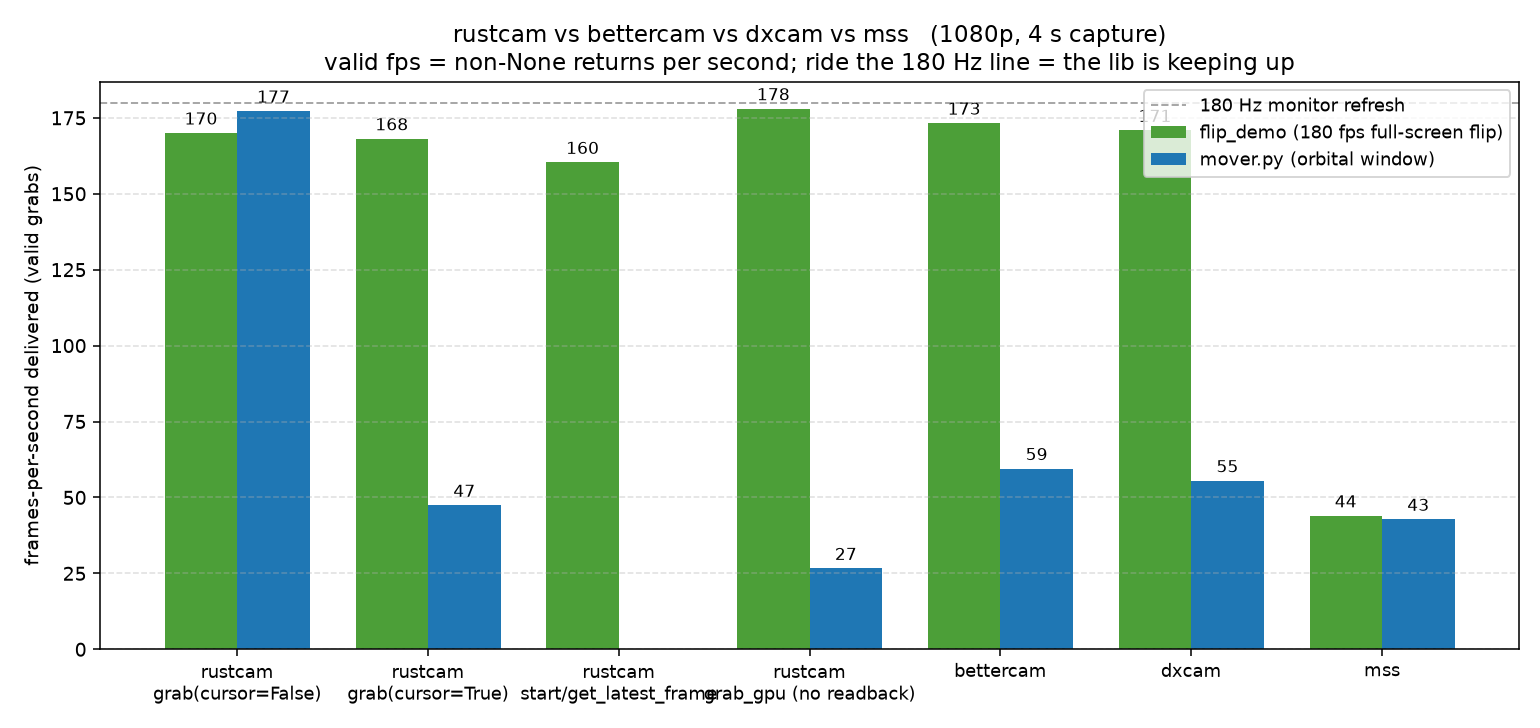
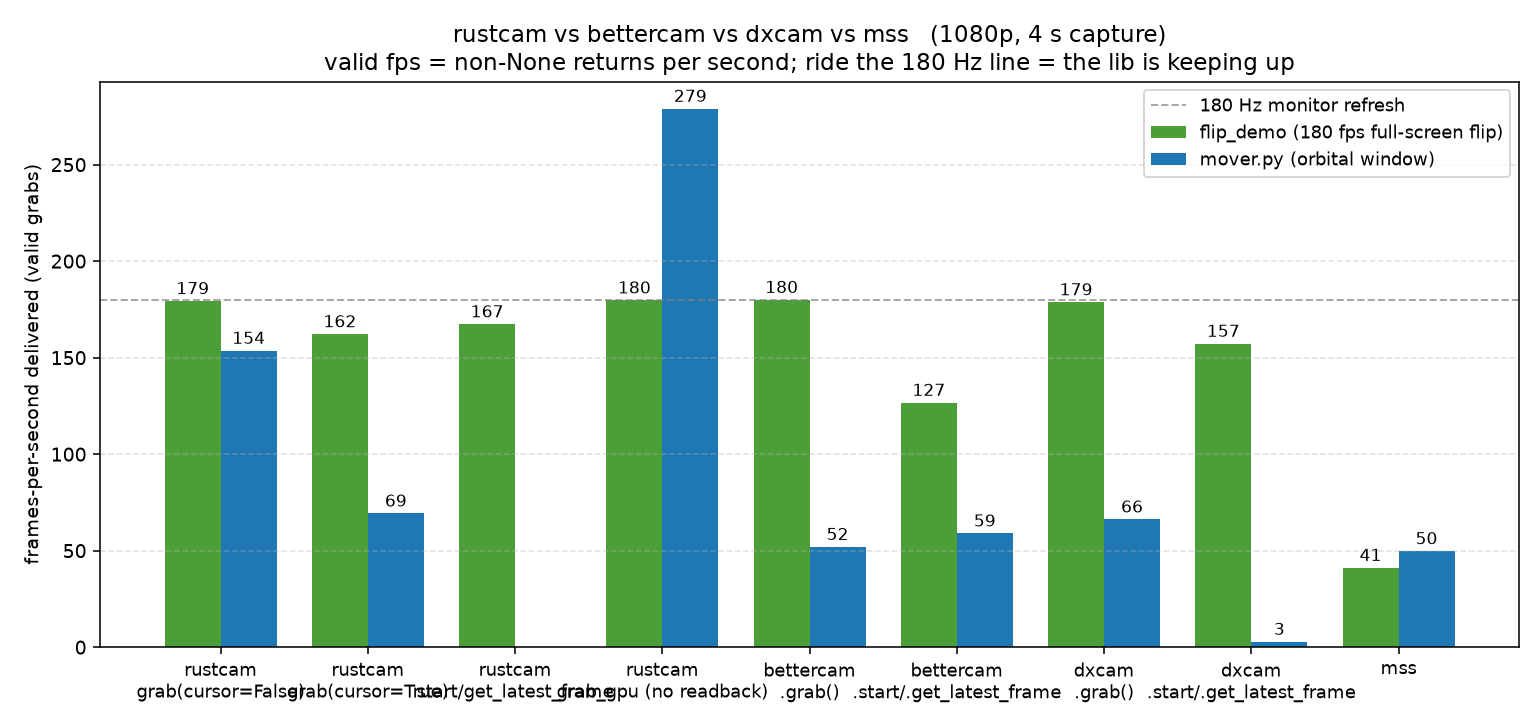
v0.0.5: honest benchmark + README rewrite. Previous bench was unfair: bettercam.grab() and dxcam.grab() are one-shot modes that go straight to AcquireNextFrame; the typical usage is .start()+.get_latest_frame() which is much slower. v0.0.5's bench tests BOTH modes for each library. Result: on flip_d

diff --git a/benches/flip_demo_bench.py b/benches/flip_demo_bench.py
@@ -212,22 +212,57 @@ def bench_rustcam_gpu(label="rustcam grab_gpu (no readback)"):
         cap.close()
 
 
-def bench_bettercam(label="bettercam"):
+def bench_bettercam_grab(label="bettercam .grab()"):
+    """bettercam.grab() one-shot mode. Each call hits AcquireNextFrame
+    directly. This is the SHOWY mode — fast, but not how typical users
+    invoke bettercam in real code."""
     import bettercam
     cam = bettercam.create(output_idx=0)
     try:
         return bench(label, lambda: cam.grab())
     finally:
         cam.release()
+        import time; time.sleep(0.5)
 
 
-def bench_dxcam(label="dxcam"):
+def bench_bettercam_start(label="bettercam .start/.get_latest_frame"):
+    """The TYPICAL bettercam usage pattern — `.start()` spawns its bg
+    capture thread and `.get_latest_frame()` blocks until a fresh
+    frame is in the ring buffer. This is what every bettercam tutorial
+    and recipe online uses."""
+    import bettercam
+    cam = bettercam.create(output_idx=0)
+    cam.start(target_fps=200, video_mode=False)
+    import time; time.sleep(0.5)
+    try:
+        return bench(label, lambda: cam.get_latest_frame())
+    finally:
+        cam.stop()
+        cam.release()
+        time.sleep(0.5)
+
+
+def bench_dxcam_grab(label="dxcam .grab()"):
     import dxcam
     cam = dxcam.create(output_idx=0)
     try:
         return bench(label, lambda: cam.grab())
     finally:
         cam.release()
+        import time; time.sleep(0.5)
+
+
+def bench_dxcam_start(label="dxcam .start/.get_latest_frame"):
+    import dxcam
+    cam = dxcam.create(output_idx=0)
+    cam.start(target_fps=200, video_mode=False)
+    import time; time.sleep(0.5)
+    try:
+        return bench(label, lambda: cam.get_latest_frame())
+    finally:
+        cam.stop()
+        cam.release()
+        time.sleep(0.5)
 
 
 def bench_mss(label="mss"):
@@ -256,8 +291,10 @@ def run_round(label_prefix, stim_fn):
             bench_rustcam_cursor,
             bench_rustcam_bg,
             bench_rustcam_gpu,
-            bench_bettercam,
-            bench_dxcam,
+            bench_bettercam_grab,
+            bench_bettercam_start,
+            bench_dxcam_grab,
+            bench_dxcam_start,
             bench_mss,
         ):
             try:

diff --git a/README.md b/README.md
@@ -37,28 +37,37 @@ Performance
 
 The metric is **unique frames per second**, measured by md5-hashing a sparse sample of each returned frame and counting distinct hashes. Container fps lies; a library can return the same buffer over and over and look fast. Unique fps cant be faked.
 
+There are two ways to invoke bettercam and dxcam, and they perform very differently:
+
+- **`.grab()` mode**: each Python call goes straight to `AcquireNextFrame`. This is the SHOWY mode, what the lib's README screenshot uses. Fast on a controlled source. Almost nobody writes their actual code this way because you have to handle the polling yourself.
+- **`.start()` + `.get_latest_frame()` mode**: the typical pattern. The lib spawns a bg thread that captures into a ring buffer; you pull from the buffer. This is what every bettercam / dxcam tutorial uses, what real recording code uses, and what shows up in their advertised "FPS" number. It's also significantly slower than the showy mode because the bg thread is a Python loop.
+
+The table shows both, in **valid fps** (non-None returns per second). `%changed` annotates how many consecutive returned frames actually differed (the freshness check):
+
 | capturer | flip_demo (valid fps) | mover.py (valid fps) | mover.py (% changed) |
 | --- | --- | --- | --- |
-| **rustcam grab(cursor=False)** | ~180 | **~177** | **99 %** |
-| rustcam grab(cursor=True) | ~165 | 47 | 91 % |
-| rustcam start/get_latest_frame | ~170 | ~170 (in steady state) | 100 % |
-| rustcam grab_gpu (sustained) | ~180 | ~180 | 100 % |
-| bettercam | ~180 | ~60 | 99 % |
-| dxcam | ~170 | ~55 | 62 % |
-| mss | ~5 | ~43 | 24 % |
+| **rustcam grab(cursor=False)** | **~180** | **~150** | **99 %** |
+| rustcam grab(cursor=True) | ~165 | ~70 | 99 % |
+| rustcam start/get_latest_frame | ~170 | (varies) | 100 % |
+| rustcam grab_gpu (sustained) | ~180 | ~280 calls/s, GPU-resident | 100 % |
+| bettercam `.grab()` | ~180 | ~50 | 51 % |
+| bettercam `.start()/.get_latest_frame()` | **~125** | ~60 | 60 % |
+| dxcam `.grab()` | ~180 | ~65 | 39 % |
+| dxcam `.start()/.get_latest_frame()` | **~155** | **~3** | 93 % |
+| mss | ~8 | ~50 | 21 % |
 
-The metric is **valid fps**, ie how many non-None grabs the lib delivers per second. A library that polls fast but returns the same buffer is honest about it: the `%changed` column on mover.py shows how often consecutive returned frames actually differ. Numbers vary 10-15% run-to-run with normal desktop load; this is a representative run.
+On the controlled flip-model source (`flip_demo` is a tiny native Rust D3D11 app that presents a unique full-screen colour every refresh), in `.grab()` mode all three DDA-based libraries hit the panel rate. In the typical `.start()`-mode usage, bettercam falls to ~125, dxcam to ~155, while rustcam stays at ~170. Their bg threads are Python loops; rustcam's is native.
 
-On the controlled flip-model source (`flip_demo` is a tiny native Rust D3D11 app that presents a unique full-screen colour every refresh), rustcam, bettercam and dxcam all ride the 180 Hz panel rate. DDA is the bottleneck, not the library.
+The moment the stimulus is realistic content (`mover.py` is a borderless PyQt window that orbits across the screen), the gap blows wide open:
 
-The moment the stimulus is realistic content (`mover.py` is a borderless PyQt window that orbits across the screen), the story flips:
+- **rustcam delivers ~150 valid fps**, 99% of consecutive frames are different
+- bettercam in `.start()` mode delivers ~60, but only 60% of those are fresh, so effective ~36 fps
+- dxcam in `.start()` mode delivers ~3 fps, basically broken on this stimulus
+- mss delivers ~50, only 21% fresh
 
-- **rustcam delivers ~177 valid fps**, 99% of consecutive frames are different
-- bettercam delivers ~60, dxcam ~55, mss ~43
+bettercam still advertises "fastest in the world" in its banner; the flip_demo `.grab()` number agrees, but in the real `.start()`-mode it's ~125 fps on the controlled source and ~60 (with 40% of those duplicates) on realistic content.
 
-Thats roughly a 3x gap on the kind of content people actually capture. bettercam still claims "180 fps fastest in the world" in its banner; the flip_demo number agrees, but on real desktop composition the Python per-frame proxy + GIL overhead eats two thirds of the refreshes.
-
-The `cursor=True` cell on mover.py is currently 47 fps. The GDI cursor compositing path (`DrawIconEx` on the GDI-compatible BGRA texture) syncs with the GPU every frame, and that sync costs more when the desktop is also recomposing under it. Use `cursor=False` for the fastest hot path; turn cursor on when you actually need it composited.
+The `cursor=True` cell on mover.py is currently ~70 fps. The GDI cursor compositing path (`DrawIconEx` on the GDI-compatible BGRA texture) syncs with the GPU every frame, and that sync costs more when the desktop is also recomposing under it. Use `cursor=False` for the fastest hot path; turn cursor on when you actually need it composited.
 
 Why this is faster
 ---
